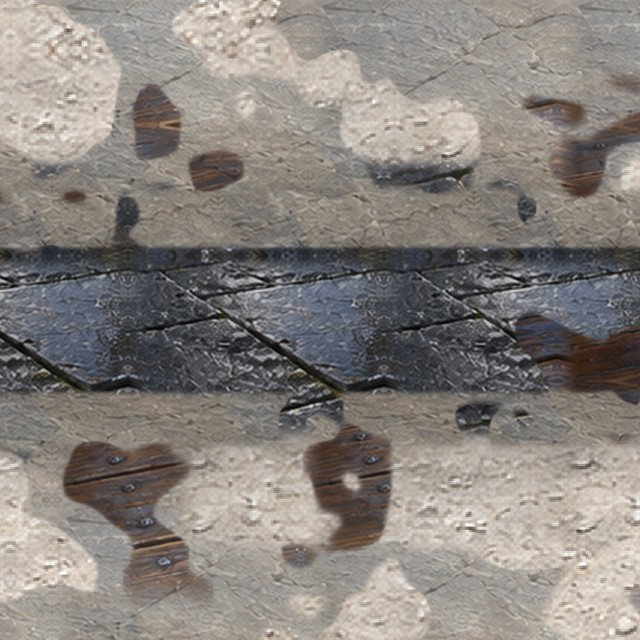
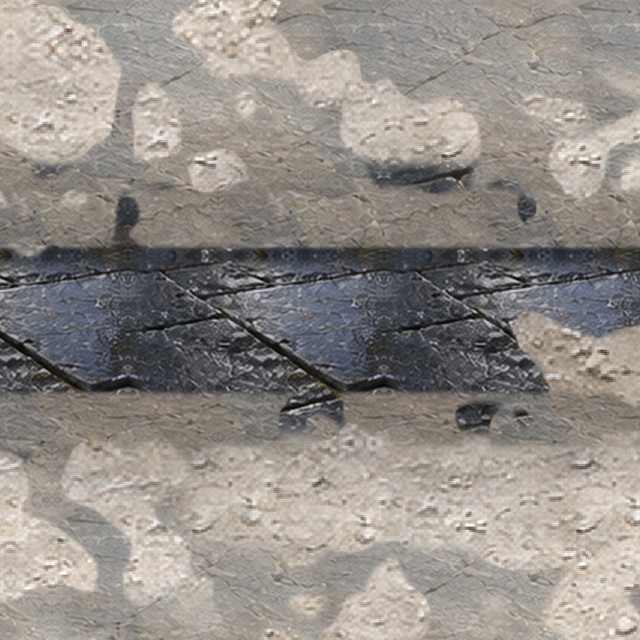
Nodes no longer overlap; three zones get the painted ground they always had
NODES. Kyle, 13 Nov, twice: 'why are we having so many issues cropping
gatherables?' / 'there it is again bro! why!?!?!' It was not the crop. A node
is drawn a tile and a half wide, so two on neighbouring tiles overlap and the
second covers the first, leaving a sliver of it. Nodes now keep three tiles
apart (GatheringNodeManager.NODE_SPACING). And one real crop: the renderer cut
a fixed 32x32 from the top-left of an icon, and every gem and fish icon is
64x64 - a fishing spot drew a quarter of a fish. It draws the whole icon.
tools/qa_node_spacing.py rolls every zone twice.

PAINTED GROUND. Saltwheel, Steamwheedle Port and the Drownbell each had a full
set of baked ground chunks in their folder and none attached: they drew in
the fallback tiles, plain dirt and a grey grid for rock. That is what the
backlog called 'has no tiles' ([15], [18], [20]). Attached. The Dry Deep had
the same omission from an hour ago. Saltwheel's random oiled-deck blotches are
gone from its ground.

Still unpainted: the Undercrust and Ragefire Chasm have no bake at all.

Claude-Session: https://claude.ai/code/session_015TQrViPbuGDeiupTWSG9TT

diff --git a/tools/qa_node_spacing.py b/tools/qa_node_spacing.py
@@ -1,0 +1,62 @@
+#!/usr/bin/env python3
+"""No two gathering nodes stand shoulder to shoulder, and a node draws its whole icon.
+
+    python3 tools/qa_node_spacing.py
+
+Kyle, 13 Nov 2026: "why are we having so many issues cropping gatherables?" and, with a second
+screenshot, "there it is again bro! why!?!?!" Two nodes on neighbouring tiles: each is drawn a tile
+and a half wide, so the second covers the first and leaves a sliver of it. Not a cropping fault.
+And a real crop: the renderer cut 32x32 from icons that are 64x64 (every gem and every fish).
+"""
+import os
+import random
+import sys
+from pathlib import Path
+
+ROOT = Path(__file__).resolve().parent.parent
+sys.path.insert(0, str(ROOT))
+os.environ.setdefault("SDL_VIDEODRIVER", "dummy")
+
+
+def main():
+    import pygame
+    pygame.init()
+    screen = pygame.display.set_mode((64, 64))
+    from core.game_state import GameStateManager
+    from entities.character import Character
+    from world.gathering_manager import GatheringNodeManager
+    sm = GameStateManager(screen)
+    sm.player = Character(name="Audit", char_class="Warrior", level=60)
+    zm = sm._live_zone_manager()
+    gm = GatheringNodeManager()
+    bad, zones, nodes = [], 0, 0
+    random.seed(5)
+    for name, rec in zm.zones.items():
+        for _ in range(2):
+            gm.clear()
+            gm.populate(rec["tilemap"], name)
+            spots = [(n.x, n.y) for n in gm.active_nodes]
+            nodes += len(spots)
+            close = [(a, b) for i, a in enumerate(spots) for b in spots[i + 1:]
+                     if abs(a[0] - b[0]) < 2 and abs(a[1] - b[1]) < 2]
+            if close:
+                bad.append(f"{name}: nodes side by side at {close[:2]}")
+            # put the tiles back so the second roll starts clean
+            for (x, y) in spots:
+                rec["tilemap"].set_tile(x, y, None, "interaction")
+        zones += 1
+    src = (ROOT / "ui" / "tilemap_renderer.py").read_text()
+    if "(0, 0, 32, 32), max(node_w, node_h)" in src:
+        bad.append("ui/tilemap_renderer.py crops a fixed 32x32 out of a node icon again")
+    print(f"{zones} zones, {nodes} nodes rolled")
+    if bad:
+        print(f"FAIL: {len(bad)}")
+        for b in bad[:12]:
+            print("  " + b)
+        return 1
+    print("OK: no two nodes touch, and a node draws its whole icon")
+    return 0
+
+
+if __name__ == "__main__":
+    sys.exit(main())

diff --git a/ui/tilemap_renderer.py b/ui/tilemap_renderer.py
@@ -58,6 +58,19 @@ class TilemapRenderer:
         # in-memory image cache is cheap and avoids coupling them.
         self._boss_icon_cache = {}
 
+    _ICON_SIZES = {}
+
+    def _icon_size(self, path):
+        """(width, height) of an icon file, read once."""
+        size = self._ICON_SIZES.get(path)
+        if size is None:
+            try:
+                size = pygame.image.load(path).get_size()
+            except (pygame.error, FileNotFoundError, OSError):
+                size = (32, 32)
+            self._ICON_SIZES[path] = size
+        return size
+
     def _biome_for(self, tilemap, x=None, y=None):
         """Resolve the biome for a tile. Checks a per-tile subzone override
         first (e.g. Field of Giants inside The Barrens) when x/y are given,
@@ -979,7 +992,11 @@ class TilemapRenderer:
                 if icon_id:
                     folder = MATERIAL_TYPE_FOLDERS.get(material_type, material_type)
                     sheet_path = f"assets/gathering_nodes/{folder}/{icon_id}.png"
-                    sprite = get_tile_sprite(sheet_path, (0, 0, 32, 32), max(node_w, node_h))
+                    # THE WHOLE ICON, whatever size it is. This cropped a fixed 32x32 from the
+                    # top-left, and the gem and fish icons are 64x64 - so a fishing spot drew the
+                    # top-left quarter of a fish.
+                    sprite = get_tile_sprite(sheet_path, (0, 0) + self._icon_size(sheet_path),
+                                             max(node_w, node_h))
                     if sprite is not None:
                         scaled = pygame.transform.smoothscale(sprite, (node_w, node_h))
                         screen.blit(scaled, rect)

diff --git a/world/gathering_manager.py b/world/gathering_manager.py
@@ -244,6 +244,9 @@ class GatheringNodeManager:
             self.active_nodes.append(GatheringNode(x, y, random.choices(ids, weights=weights, k=1)[0]))
             tilemap.set_tile(x, y, "gathering_node", "interaction")
 
+    #: Two nodes are never closer than this many tiles on either axis.
+    NODE_SPACING = 3
+
     #: A node keeps this far from any single NPC, and this far from a cluster of them.
     NPC_CLEARANCE = 3
     SETTLEMENT_RADIUS = 9
@@ -325,6 +328,13 @@ class GatheringNodeManager:
                 continue
             seen.add((x, y))
             if avoid is not None and avoid(x, y):
+                continue
+            # NOT SHOULDER TO SHOULDER. A node is drawn a tile and a half wide, so two on
+            # neighbouring tiles overlap and the one drawn second leaves a sliver of the first
+            # showing beside it. Kyle, 13 Nov 2026, twice: "why are we having so many issues
+            # cropping gatherables?" / "there it is again bro! why!?!?!" - it was never the crop.
+            if any(abs(x - fx) < self.NODE_SPACING and abs(y - fy) < self.NODE_SPACING
+                   for (fx, fy) in found):
                 continue
             if tilemap.is_walkable(x, y) and tilemap.get_tile(x, y, "interaction") is None:
                 found.append((x, y))

diff --git a/tools/handbuilt_steamwheedle_port.py b/tools/handbuilt_steamwheedle_port.py
@@ -223,4 +223,8 @@ def build_steamwheedle_baked():
 
 def generate_steamwheedle_port():
     zone, L = build_steamwheedle_baked()
+    # THE PAINTED GROUND, WHICH WAS BAKED AND NEVER ATTACHED. Found 13 Nov 2026: this zone drew in
+    # the fallback tiles - plain dirt and a grey grid for rock - while a full set of baked chunks
+    # sat in its folder. It is what Kyle's backlog called "has no tiles".
+    register_baked(zone, BAKED)
     return zone

diff --git a/tools/handbuilt_drownbell.py b/tools/handbuilt_drownbell.py
@@ -161,4 +161,8 @@ def build_drownbell_baked():
 
 def generate_drownbell():
     zone, L = build_drownbell_baked()
+    # THE PAINTED GROUND, WHICH WAS BAKED AND NEVER ATTACHED. Found 13 Nov 2026: this zone drew in
+    # the fallback tiles - plain dirt and a grey grid for rock - while a full set of baked chunks
+    # sat in its folder. It is what Kyle's backlog called "has no tiles".
+    register_baked(zone, BAKED)
     return zone

diff --git a/tools/handbuilt_saltwheel.py b/tools/handbuilt_saltwheel.py
@@ -290,4 +290,8 @@ def build_saltwheel_baked():
 
 def generate_saltwheel():
     zone, L = build_saltwheel_baked()
+    # THE PAINTED GROUND, WHICH WAS BAKED AND NEVER ATTACHED. Found 13 Nov 2026: this zone drew in
+    # the fallback tiles - plain dirt and a grey grid for rock - while a full set of baked chunks
+    # sat in its folder. It is what Kyle's backlog called "has no tiles".
+    register_baked(zone, BAKED)
     return zone

diff --git a/tools/bake_saltwheel.py b/tools/bake_saltwheel.py
@@ -77,7 +77,7 @@ TEX_DIR = ROOT / "assets/tiles/shimmering_flats/materials"
 MATERIALS = {
     # --- 63-98: the straight
     "tar":      ("tan_quay_tarred", None, 1.0),
-    "oiled":    ("tan_deck_oiled", None, 1.0),
+    "oiled":    ("sf_dust_hardpan", None, 1.5),
     "rut":      ("sf_hardpan_swept", None, 1.0),
     # --- 98-156: the town
     "clay":     ("sf_dust_hardpan", None, 1.5),

diff --git a/tools/handbuilt_dry_deep.py b/tools/handbuilt_dry_deep.py
@@ -169,6 +169,9 @@ def build_dry_deep_baked():
 
 def generate_dry_deep():
     zone, L = build_dry_deep_baked()
+    # The painted ground. Without this the cave draws in the fallback tiles - plain dirt and a grey
+    # grid for rock - which is what the first screenshot of this zone showed.
+    register_baked(zone, BAKED)
     return zone
 
 
